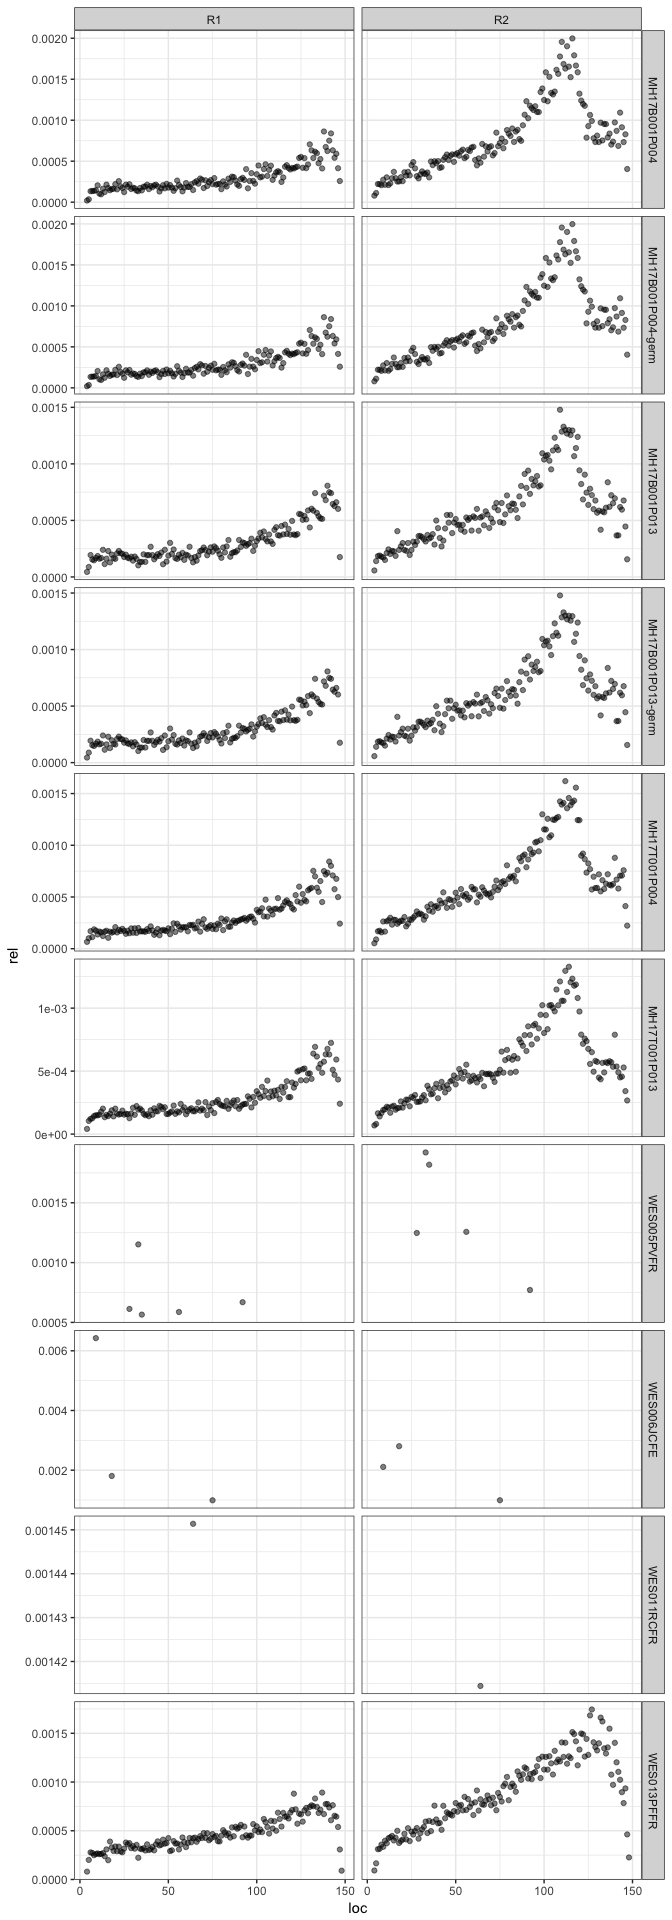
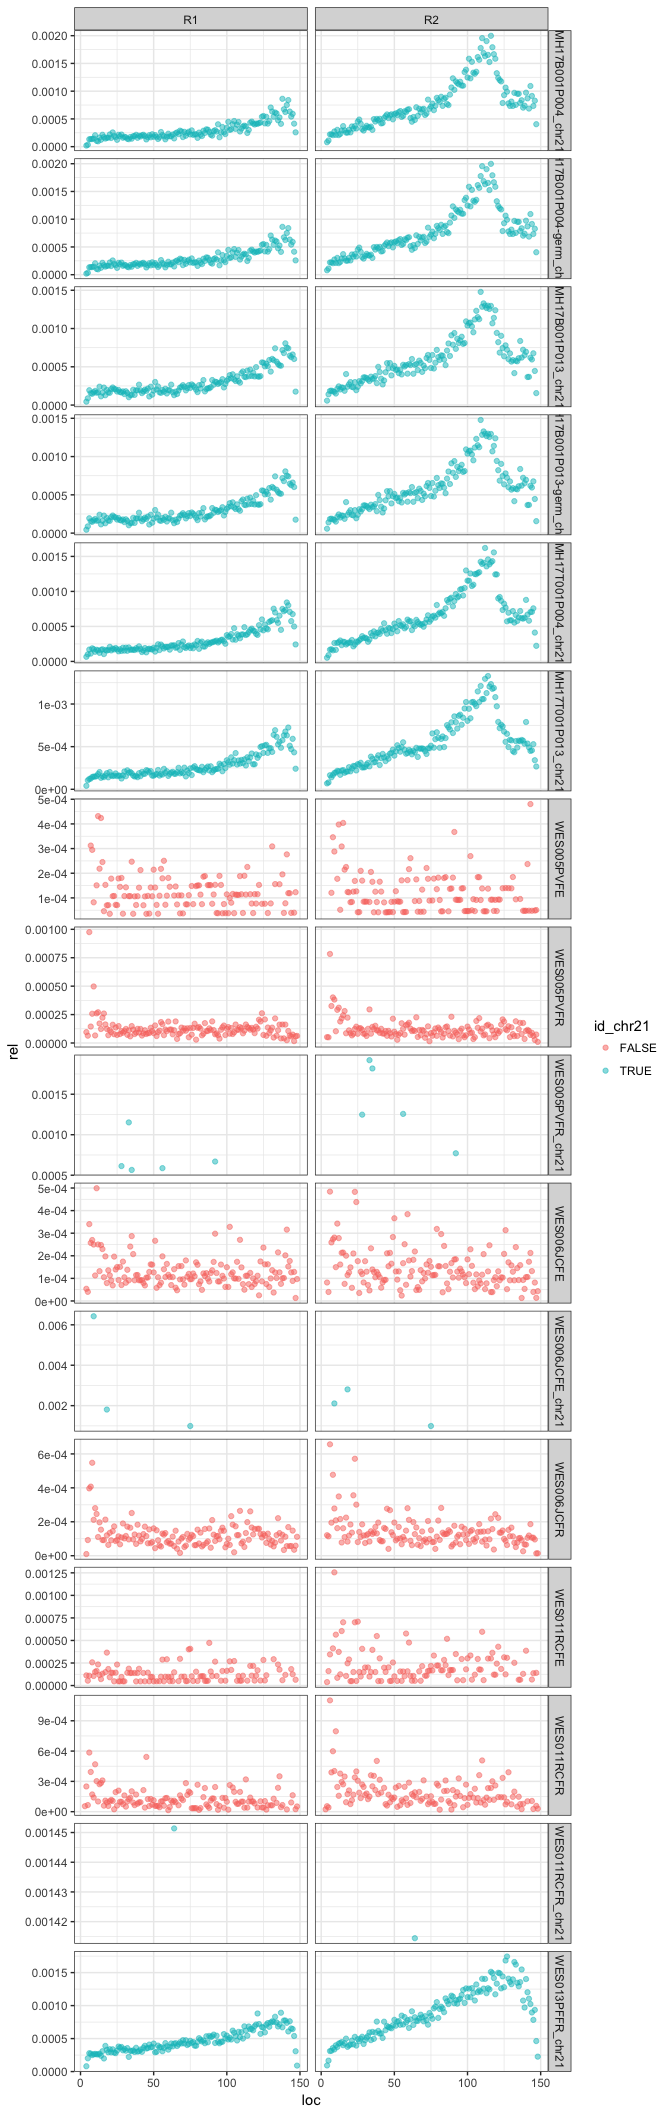
including chr21 vs whole

diff --git a/report/2017-08-31/report.md b/report/2017-08-31/report.md
@@ -14,14 +14,12 @@ library(readr)
 Used chr21 `BAM` subset of following samples:
 
 ```r
-fnames <- list.files("~/Desktop/git/dna-damage-estimation/data/new")
-samples <- fnames %>%
+list.files("~/Desktop/git/dna-damage-estimation/data/new", pattern = "chr21") %>%
   sub("(.*)_chr21_(tot|pos|con)_damage.tsv", "\\1", .) %>% 
   sub("-ready", "", .) %>% 
   sub("-sort", "", .) %>% 
   sub("-germline", "_germ", .) %>% 
   unique()
-samples
 ```
 
 ```
@@ -30,6 +28,19 @@ samples
  [7] "WES005PVFE"        "WES005PVFR"        "WES006JCFE"       
 [10] "WES006JCFR"        "WES011RCFE"        "WES011RCFR"       
 [13] "WES013PFFR"       
+```
+
+And whole `BAM`s of following samples:
+
+```r
+list.files("~/Desktop/git/dna-damage-estimation/data/new", pattern = "[ER]_(tot|pos|con)_damage.tsv") %>% 
+  sub("_(tot|pos|con)_damage.tsv", "", .) %>% 
+  unique()
+```
+
+```
+[1] "WES005PVFE" "WES005PVFR" "WES006JCFE" "WES006JCFR" "WES011RCFE"
+[6] "WES011RCFR"
 ```
 
 ## Estimate total, positional, and context damage
@@ -79,12 +90,18 @@ basename(fnames)
  [5] "MH17T001P004-ready_chr21_tot_damage.tsv"         
  [6] "MH17T001P013-ready_chr21_tot_damage.tsv"         
  [7] "WES005PVFE_chr21_tot_damage.tsv"                 
- [8] "WES005PVFR_chr21_tot_damage.tsv"                 
- [9] "WES006JCFE_chr21_tot_damage.tsv"                 
-[10] "WES006JCFR_chr21_tot_damage.tsv"                 
-[11] "WES011RCFE_chr21_tot_damage.tsv"                 
-[12] "WES011RCFR_chr21_tot_damage.tsv"                 
-[13] "WES013PFFR-sort_chr21_tot_damage.tsv"            
+ [8] "WES005PVFE_tot_damage.tsv"                       
+ [9] "WES005PVFR_chr21_tot_damage.tsv"                 
+[10] "WES005PVFR_tot_damage.tsv"                       
+[11] "WES006JCFE_chr21_tot_damage.tsv"                 
+[12] "WES006JCFE_tot_damage.tsv"                       
+[13] "WES006JCFR_chr21_tot_damage.tsv"                 
+[14] "WES006JCFR_tot_damage.tsv"                       
+[15] "WES011RCFE_chr21_tot_damage.tsv"                 
+[16] "WES011RCFE_tot_damage.tsv"                       
+[17] "WES011RCFR_chr21_tot_damage.tsv"                 
+[18] "WES011RCFR_tot_damage.tsv"                       
+[19] "WES013PFFR-sort_chr21_tot_damage.tsv"            
 ```
 
 ```r
@@ -99,38 +116,46 @@ mut_list <- lapply(fnames, function(f) {
 
 mut_all <- dplyr::bind_rows(mut_list)
 mut_all <- mut_all %>% 
-  mutate(id2 = sub("^\\/(.*).*_chr21.*", "\\1", id),
-         id2 = sub("-(sort|ready)", "", id2),
-         id2 = sub("-germline", "-germ", id2))
+  mutate(id_clean = sub("^\\/", "", id),
+         id_clean = sub("-(sort|ready)", "", id_clean),
+         id_clean = sub("-germline", "-germ", id_clean)) %>% 
+  mutate(id_joint = sub("_chr21", "", id_clean),
+         id_chr21 = grepl("chr21", id_clean))
 
-table(mut_all$id2, useNA = "ifany")
-```
-
-```
-
-     MH17B001P004 MH17B001P004-germ      MH17B001P013 MH17B001P013-germ 
-               12                12                12                12 
-     MH17T001P004      MH17T001P013        WES005PVFE        WES005PVFR 
-               12                12                12                12 
-       WES006JCFE        WES006JCFR        WES011RCFE        WES011RCFR 
-               12                12                12                12 
-       WES013PFFR 
-               12 
-```
-
-```r
-# no log
-g <- ggplot(mut_all, aes(x = reorder(type, damage), y = damage, color = id2))
-g + geom_point(alpha = 1/2, size=1.5) +
+mut_all %>% 
+  ggplot(aes(x = reorder(type, damage), y = damage)) +
+  geom_point(alpha = 1/2, size = 1.5, aes(colour = id_clean)) +
   geom_hline(yintercept = 1.5, color = "#990000", linetype = "dashed") +
   annotate("text", x = 4, y = 1.6, color = "#990000",
-           label = "1/3 of variants is due to damage") +
+           label = "1/3 variants due to damage") +
   geom_hline(yintercept = 0, color = "grey") +
   theme(panel.background = element_rect(fill = 'white', colour = 'white')) +
-  ggtitle("GIV scores for variant types")
+  ggtitle("GIV scores for variant types") 
 ```
 
 ![](report_files/figure-html/tot_damage-1.png)<!-- -->
+
+__Compare chr21 subset to whole bam__
+
+```r
+mut_all %>% 
+  filter(
+    grepl(
+      paste0("WES", c("005PV", "006JC", "011RC"), rep(c("FR", "FE"), 3),
+             collapse = "|"),
+      id_clean)) %>% 
+  ggplot(aes(x = reorder(type, damage), y = damage)) +
+  geom_point(alpha = 1/2, size = 1.5, aes(colour = id_chr21)) +
+  geom_hline(yintercept = 1.5, color = "#990000", linetype = "dashed") +
+  annotate("text", x = 4, y = 1.6, color = "#990000",
+           label = "1/3 variants due to damage") +
+  geom_hline(yintercept = 0, color = "grey") +
+  theme(panel.background = element_rect(fill = 'white', colour = 'white')) +
+  ggtitle("GIV scores for variant types") +
+  facet_wrap(~id_joint, ncol = 2)
+```
+
+![](report_files/figure-html/tot_damage_chr21-1.png)<!-- -->
  
 #### Position Damage
 
@@ -148,33 +173,41 @@ basename(fnames)
  [5] "MH17T001P004-ready_chr21_pos_damage.tsv"         
  [6] "MH17T001P013-ready_chr21_pos_damage.tsv"         
  [7] "WES005PVFE_chr21_pos_damage.tsv"                 
- [8] "WES005PVFR_chr21_pos_damage.tsv"                 
- [9] "WES006JCFE_chr21_pos_damage.tsv"                 
-[10] "WES006JCFR_chr21_pos_damage.tsv"                 
-[11] "WES011RCFE_chr21_pos_damage.tsv"                 
-[12] "WES011RCFR_chr21_pos_damage.tsv"                 
-[13] "WES013PFFR-sort_chr21_pos_damage.tsv"            
+ [8] "WES005PVFE_pos_damage.tsv"                       
+ [9] "WES005PVFR_chr21_pos_damage.tsv"                 
+[10] "WES005PVFR_pos_damage.tsv"                       
+[11] "WES006JCFE_chr21_pos_damage.tsv"                 
+[12] "WES006JCFE_pos_damage.tsv"                       
+[13] "WES006JCFR_chr21_pos_damage.tsv"                 
+[14] "WES006JCFR_pos_damage.tsv"                       
+[15] "WES011RCFE_chr21_pos_damage.tsv"                 
+[16] "WES011RCFE_pos_damage.tsv"                       
+[17] "WES011RCFR_chr21_pos_damage.tsv"                 
+[18] "WES011RCFR_pos_damage.tsv"                       
+[19] "WES013PFFR-sort_chr21_pos_damage.tsv"            
 ```
 
 ```r
 mut_list <- lapply(fnames, read_pos_damage)
 
 mut_all <- dplyr::bind_rows(mut_list)
-mut_all <- mut_all %>% 
-  mutate(id2 = sub("^\\/(.*).*_chr21.*", "\\1", id),
-         id2 = sub("-(sort|ready)", "", id2),
-         id2 = sub("-germline", "-germ", id2))
+mut_all <- mut_all %>%
+  mutate(id_clean = sub("^\\/", "", id),
+         id_clean = sub("-(sort|ready)", "", id_clean),
+         id_clean = sub("-germline", "-germ", id_clean)) %>%
+  mutate(id_joint = sub("_chr21", "", id_clean),
+         id_chr21 = grepl("chr21", id_clean))
 ```
 
 __Example for type T-G__
 
 ```r
-mut_all %>% 
-  filter(type == "T_G") %>% 
+mut_all %>%
+  filter(type == "T_G") %>%
   ggplot() +
-  geom_point(aes(x = loc, y = rel), alpha = 1/2) +
+  geom_point(aes(x = loc, y = rel, colour = id_chr21), alpha = 1/2) +
   theme_bw() +
-  facet_grid(id2 ~ read, scales = "free_y")
+  facet_grid(id_clean ~ read, scales = "free_y")
 ```
 
 ![](report_files/figure-html/pos_damage-1.png)<!-- -->
@@ -183,8 +216,8 @@ __All types shown in separate folder__
 
 ```r
 for (t in type_clean) {
-  g <- mut_all %>% 
-    filter(type == t) %>% 
+  g <- mut_all %>%
+    filter(type == t) %>%
     ggplot() +
     geom_point(aes(x = loc, y = rel), alpha = 1/2) +
     theme_bw() +
@@ -211,33 +244,41 @@ basename(fnames)
  [5] "MH17T001P004-ready_chr21_con_damage.tsv"         
  [6] "MH17T001P013-ready_chr21_con_damage.tsv"         
  [7] "WES005PVFE_chr21_con_damage.tsv"                 
- [8] "WES005PVFR_chr21_con_damage.tsv"                 
- [9] "WES006JCFE_chr21_con_damage.tsv"                 
-[10] "WES006JCFR_chr21_con_damage.tsv"                 
-[11] "WES011RCFE_chr21_con_damage.tsv"                 
-[12] "WES011RCFR_chr21_con_damage.tsv"                 
-[13] "WES013PFFR-sort_chr21_con_damage.tsv"            
+ [8] "WES005PVFE_con_damage.tsv"                       
+ [9] "WES005PVFR_chr21_con_damage.tsv"                 
+[10] "WES005PVFR_con_damage.tsv"                       
+[11] "WES006JCFE_chr21_con_damage.tsv"                 
+[12] "WES006JCFE_con_damage.tsv"                       
+[13] "WES006JCFR_chr21_con_damage.tsv"                 
+[14] "WES006JCFR_con_damage.tsv"                       
+[15] "WES011RCFE_chr21_con_damage.tsv"                 
+[16] "WES011RCFE_con_damage.tsv"                       
+[17] "WES011RCFR_chr21_con_damage.tsv"                 
+[18] "WES011RCFR_con_damage.tsv"                       
+[19] "WES013PFFR-sort_chr21_con_damage.tsv"            
 ```
 
 ```r
 mut_list <- lapply(fnames, read_con_damage)
 
 mut_all <- dplyr::bind_rows(mut_list)
-mut_all <- mut_all %>% 
-  mutate(id2 = sub("^\\/(.*).*_chr21.*", "\\1", id),
-         id2 = sub("-(sort|ready)", "", id2),
-         id2 = sub("-germline", "-germ", id2))
+mut_all <- mut_all %>%
+  mutate(id_clean = sub("^\\/", "", id),
+         id_clean = sub("-(sort|ready)", "", id_clean),
+         id_clean = sub("-germline", "-germ", id_clean)) %>%
+  mutate(id_joint = sub("_chr21", "", id_clean),
+         id_chr21 = grepl("chr21", id_clean))
 ```
 
 __Example for type T-G and context TBT__
 
 ```r
-mut_all %>% 
-  filter(type == "T_G", context == "T_BASE_T") %>% 
+mut_all %>%
+  filter(type == "T_G", context == "T_BASE_T") %>%
   ggplot() +
-  geom_point(aes(x = loc, y = rel), alpha = 1/2) +
+  geom_point(aes(x = loc, y = rel, colour = id_chr21), alpha = 1/2) +
   theme_bw() +
-  facet_grid(id2 ~ read, scales = "free_y")
+  facet_grid(id_clean ~ read, scales = "free_y")
 ```
 
 ![](report_files/figure-html/con_damage-1.png)<!-- -->
@@ -247,9 +288,9 @@ __All types shown in separate folder__
 ```r
 for (t in type_clean) {
   for (con in context_clean) {
-    
-    g <- mut_all %>% 
-      filter(type == t) %>% 
+
+    g <- mut_all %>%
+      filter(type == t) %>%
       ggplot() +
       geom_point(aes(x = loc, y = rel), alpha = 1/2) +
       theme_bw() +
